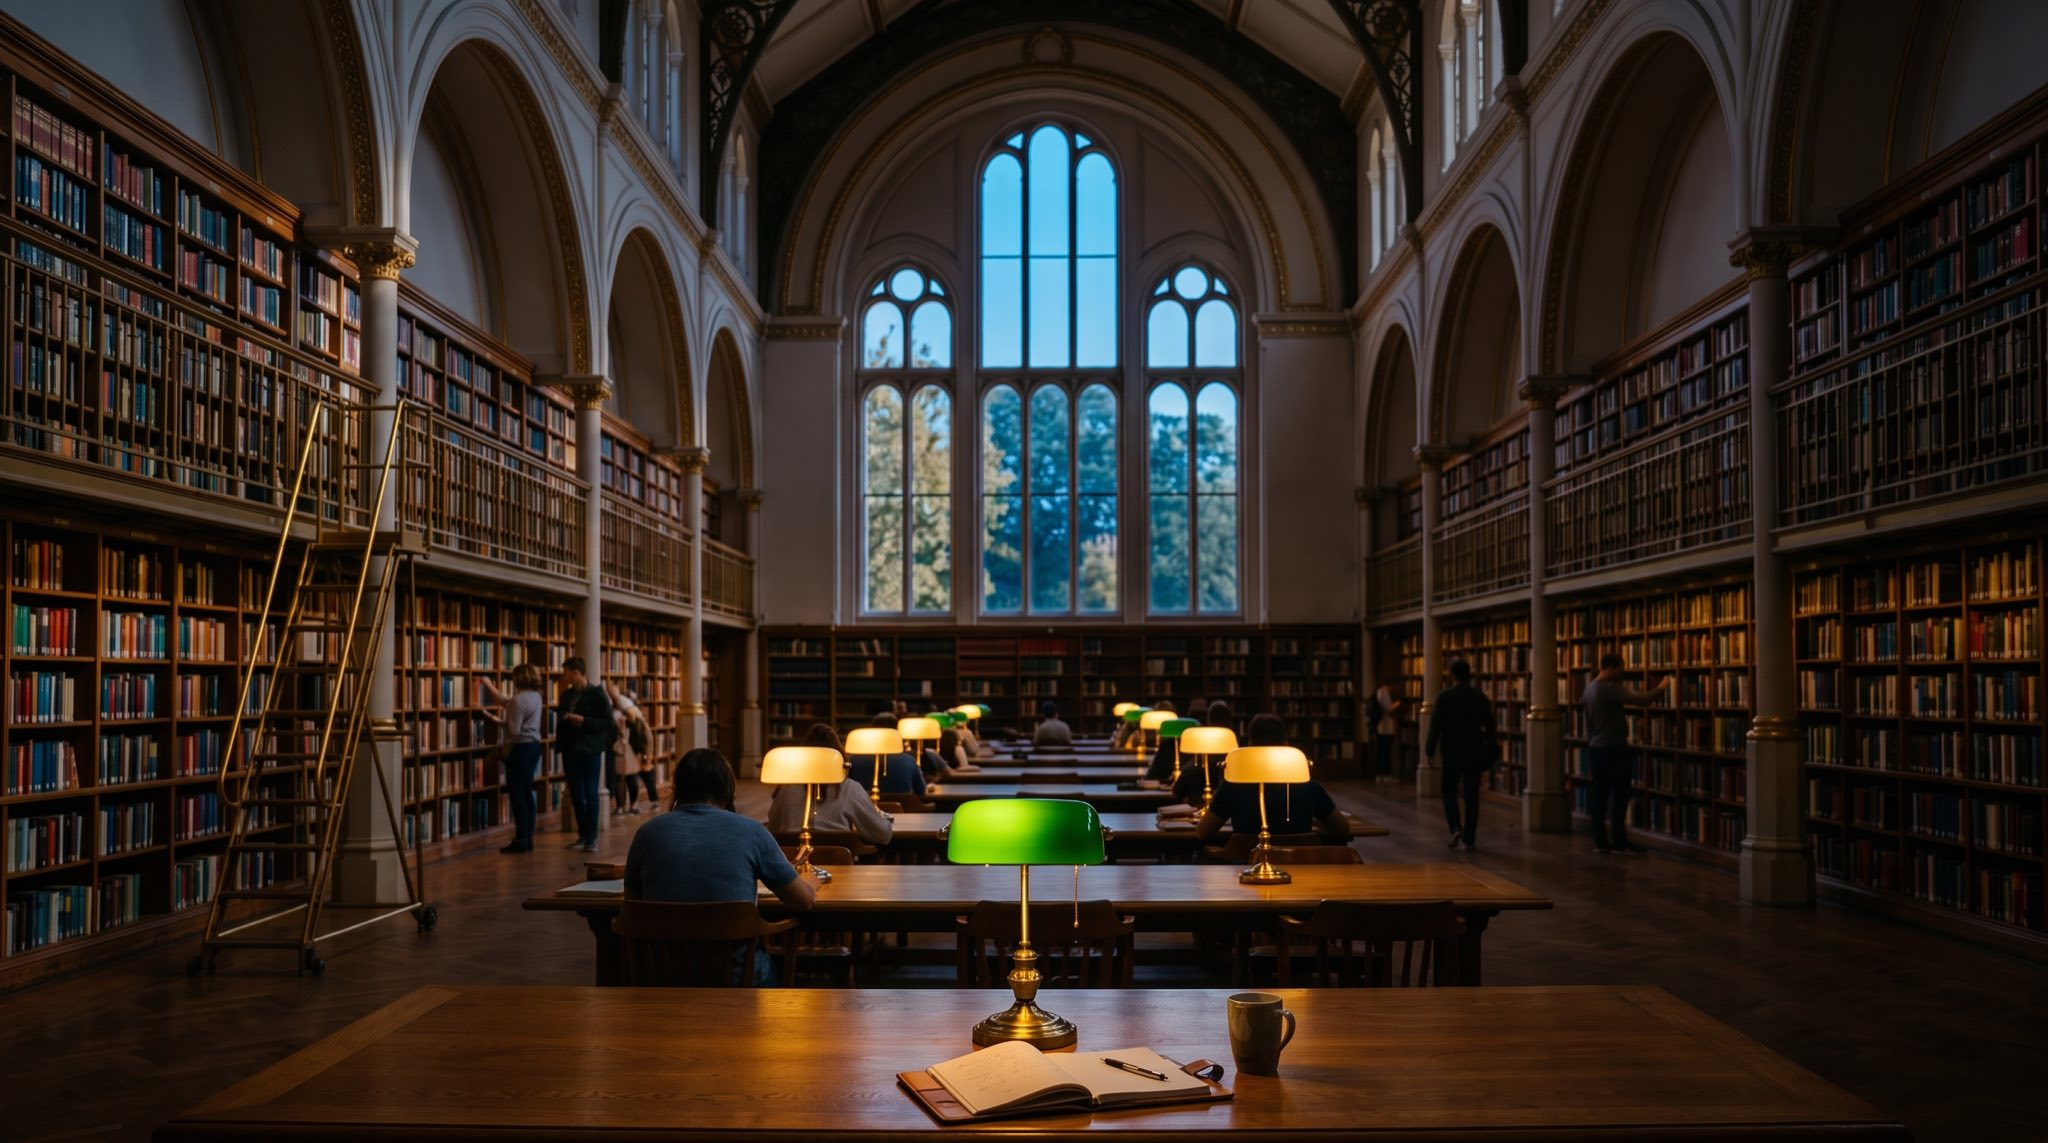
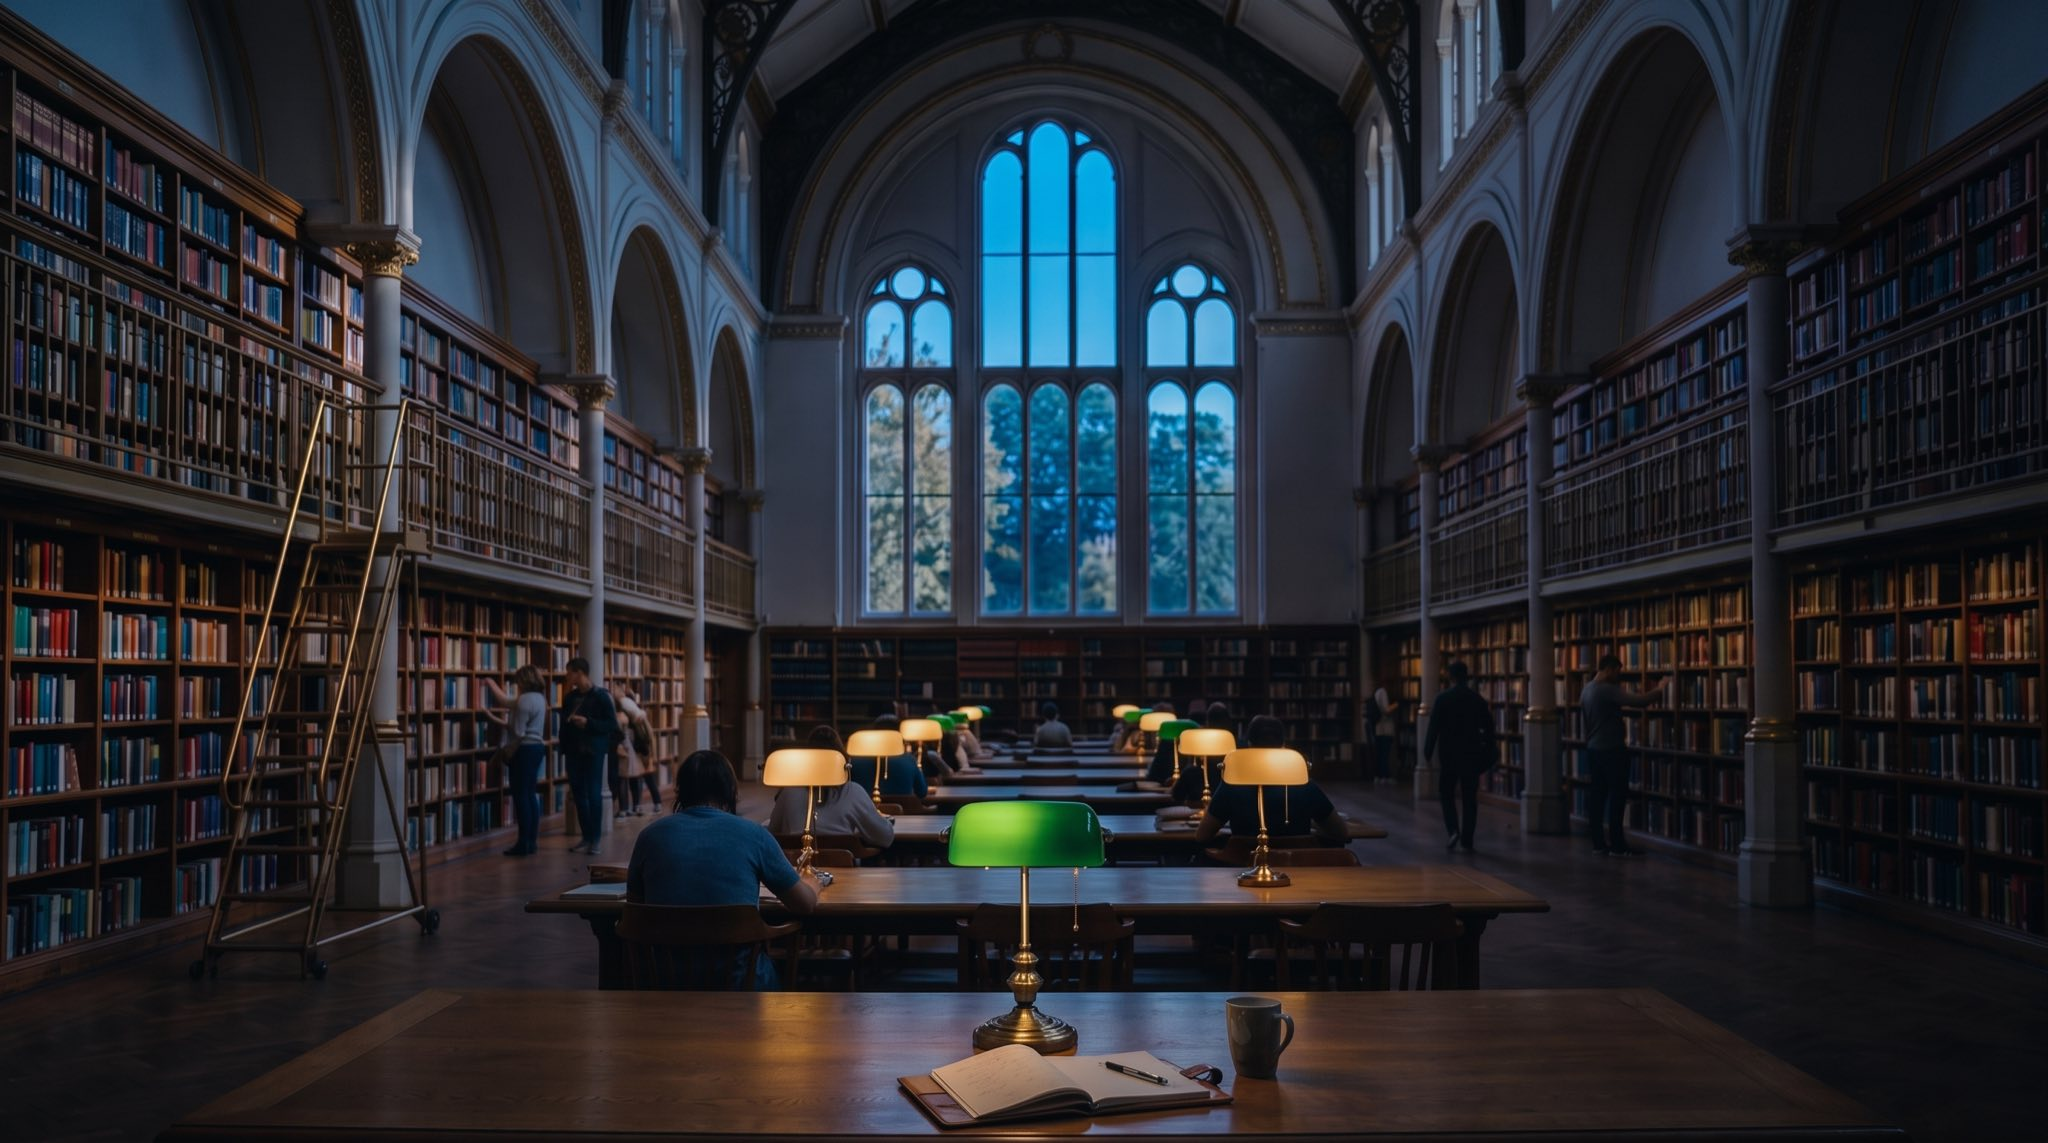
Home page: remove brown — charcoal-ink rooms, white paper, gold accents kept
Walnut/panel values retuned to charcoal (token names unchanged, the patch writes
them), paper to white, greige rules to cool grey. Hero plate regraded to blue
hour (phone crop cut from it); courtroom and office backdrops desaturated.

diff --git a/index.html b/index.html
@@ -11,7 +11,7 @@
 <meta property="og:title" content="NoCase &mdash; You don't have a case. Prove us wrong.">
 <meta property="og:description" content="Tell us what happened. We argue both sides, tell you where you stand, and build the packet you'd hand a lawyer.">
 <meta property="og:image" content="https://nocase.org/assets/hero-library.jpg">
-<meta name="theme-color" content="#1d130d">
+<meta name="theme-color" content="#0f1216">
 <!-- Fonts are served from assets/fonts/ — same no-external-requests posture as the
      plates. TeX Gyre Schola (GUST Font License) is a cut of Century Schoolbook, the face
      court briefs are filed in; Libre Franklin (OFL) is the face of forms and labels. -->
@@ -30,28 +30,29 @@
      Every section is a room (walnut, lamp light). --paper appears only where there
      is an actual document: the intake sheet, the example case file, the fee
      schedule, the terms. If a paralegal couldn't hand it to you, it isn't white.
-     Palette is lifted from a Texas law library: South Western Reporter buckram,
-     its red spine labels, walnut, brass, banker's-lamp green. */
+     Palette: charcoal-ink rooms and white paper (no brown, Dan 2026-09-24), with
+     the gold accents kept — buckram headline, brass rules, gilt handwriting —
+     plus spine red and banker's-lamp green. */
   :root {
-    --walnut: #1d130d;
-    --panel: #2b1c13;
+    --walnut: #0f1216;   /* name kept; value is charcoal ink since 2026-09-24 (Dan: no brown) */
+    --panel: #1a1f26;
     --buckram: #d2b07a;
     --brass: #b8954a;
     --lamp: #1e5c45;
     --spine: #9b2226;
-    --on-dark: rgba(242,240,233,0.80);
-    --on-dark-soft: rgba(242,240,233,0.62);
+    --on-dark: rgba(244,245,247,0.82);
+    --on-dark-soft: rgba(244,245,247,0.62);
     --hairline: rgba(184,149,74,0.32);
 
     /* Legacy token NAMES are kept on purpose: nocase-v2.3-patch.js and the inline
        fallback write these into result markup. Retune values; never rename. They
        all describe ink-on-paper, because results render on paper. */
-    --ink: #16120f;
-    --ink-soft: #3d352e;
-    --ink-muted: #6f665c;
-    --paper: #f2f0e9;
-    --paper-dark: #e6e2d6;
-    --rule: #cfc8b8;
+    --ink: #121417;
+    --ink-soft: #3a4048;
+    --ink-muted: #656c76;
+    --paper: #ffffff;
+    --paper-dark: #eceef1;
+    --rule: #d5d9df;
     --blue: #2f4a7a;
     --blue-light: #e7ecf4;
     --red: #9b2226;
@@ -132,9 +133,9 @@
   .lobby-plate::after {
     content: ''; position: absolute; inset: 0;
     background:
-      radial-gradient(ellipse 46% 22% at 50% 17%, rgba(29,19,13,0.72), rgba(29,19,13,0) 100%),
-      linear-gradient(to bottom, rgba(29,19,13,0.45) 0%, rgba(29,19,13,0) 18%, rgba(29,19,13,0) 66%, var(--walnut) 100%),
-      linear-gradient(to right, rgba(29,19,13,0.62) 0%, rgba(29,19,13,0.30) 46%, rgba(29,19,13,0.58) 100%);
+      radial-gradient(ellipse 46% 22% at 50% 17%, rgba(15,18,22,0.72), rgba(15,18,22,0) 100%),
+      linear-gradient(to bottom, rgba(15,18,22,0.45) 0%, rgba(15,18,22,0) 18%, rgba(15,18,22,0) 66%, var(--walnut) 100%),
+      linear-gradient(to right, rgba(15,18,22,0.62) 0%, rgba(15,18,22,0.30) 46%, rgba(15,18,22,0.58) 100%);
   }
   /* Headline on top, the book on the desk in the middle, the intake sheet under it
      (flying-book hero, 2026-09-21). Sized so #ncRunBtn clears the fold at 1440x900. */
@@ -160,13 +161,13 @@
   .hero-headline.verdict-good  { color: var(--green-bright); }
   .hero-headline.verdict-mixed { color: var(--gold-bright); }
   .hero-headline.verdict-bad   { color: var(--red-bright); }
-  .hero-sub { font-family: var(--serif); font-style: italic; font-size: clamp(22px, 2.6vw, 32px); line-height: 1.25; color: rgba(242,240,233,0.92); margin-bottom: 0; }
+  .hero-sub { font-family: var(--serif); font-style: italic; font-size: clamp(22px, 2.6vw, 32px); line-height: 1.25; color: rgba(244,245,247,0.92); margin-bottom: 0; }
   .hero-desc { max-width: 30em; font-size: 18px; line-height: 1.6; color: var(--on-dark); }
 
   /* The intake sheet — the one loud element on the page. */
   .sheet {
     background: var(--paper); color: var(--ink);
-    border: 1px solid #d8cfb9; border-radius: 2px;
+    border: 1px solid #d5d9df; border-radius: 2px;
     box-shadow: 0 1px 0 rgba(0,0,0,0.5), 0 18px 40px -18px rgba(0,0,0,0.7);
   }
   .intake-sheet { padding: 22px 24px 20px; }
@@ -179,15 +180,15 @@
     font-family: var(--sans); font-size: 16px; line-height: 28px; color: var(--ink);
     padding: 6px 10px; border: 1px solid var(--rule); border-radius: 2px;
     /* ruled like a form: one hairline per line of text */
-    background: #fbfaf5 repeating-linear-gradient(to bottom, transparent 0, transparent 27px, #e3ddcd 27px, #e3ddcd 28px);
+    background: #fafbfc repeating-linear-gradient(to bottom, transparent 0, transparent 27px, #e4e7eb 27px, #e4e7eb 28px);
     background-attachment: local; background-position: 0 6px;
   }
-  .intake-sheet textarea::placeholder { color: #8b8275; }
+  .intake-sheet textarea::placeholder { color: #858c96; }
   .intake-sheet textarea:focus-visible { outline: 2px solid var(--lamp); outline-offset: 1px; }
   .field-help { font-size: 13px; color: var(--ink-muted); margin: 8px 0 14px; }
   .legacy-pickers { display: grid; grid-template-columns: 1fr 1fr; gap: 12px; }
   .legacy-pickers > div { margin-bottom: 14px; }
-  .legacy-pickers select { width: 100%; font-family: var(--sans); font-size: 14px; color: var(--ink); padding: 9px 10px; border: 1px solid var(--rule); border-radius: 2px; background: #fbfaf5; }
+  .legacy-pickers select { width: 100%; font-family: var(--sans); font-size: 14px; color: var(--ink); padding: 9px 10px; border: 1px solid var(--rule); border-radius: 2px; background: #fafbfc; }
   /* #ncError, #ncTimer and #ncCourtroom are hidden by an INLINE display:none, never by
      this stylesheet. nocase-v2.3-patch.js reveals them with style.display = '' (clear
      the inline value). Hide them here as well and that clear falls through to this
@@ -217,7 +218,7 @@
   #ncCourtroom .nc-terms-link { font-size: 13px; margin: 0; }
   .nc-next { margin-top: 14px; padding-top: 12px; border-top: 1px solid var(--rule); }
   .nc-next h3 { margin-top: 0 !important; }
-  .nc-nextstep { margin-top: 14px; padding: 20px 22px; background: var(--paper); color: var(--ink); border: 1px solid #d8cfb9; border-radius: 2px; display: flex; align-items: center; justify-content: space-between; gap: 24px; flex-wrap: wrap; }
+  .nc-nextstep { margin-top: 14px; padding: 20px 22px; background: var(--paper); color: var(--ink); border: 1px solid #d5d9df; border-radius: 2px; display: flex; align-items: center; justify-content: space-between; gap: 24px; flex-wrap: wrap; }
   #ncCourtroom .nc-nextstep h3 { font-family: var(--serif); font-size: 20px; margin: 0 0 4px; }   /* id needed: #ncCourtroom h3 sizes model markdown */
   #ncCourtroom .nc-nextstep p { font-size: 15px; color: var(--ink-soft); max-width: 44em; margin: 0; }
   /* Results are paper, so they take ink. The page's text colour is light (rooms are
@@ -268,12 +269,12 @@
   /* The page block's edge along the bottom: a few paper lines under each page. */
   .hero-book::after {
     content: ''; position: absolute; left: 2px; right: 2px; bottom: -5px; height: 5px; z-index: -1;
-    background: repeating-linear-gradient(to bottom, #e6e2d6 0 1px, #cfc8b8 1px 2px);
+    background: repeating-linear-gradient(to bottom, #eceef1 0 1px, #d5d9df 1px 2px);
     border-radius: 0 0 2px 2px;
     animation: leftShow 1ms linear 2050ms both;
   }
   .hero-book-page {
-    background: var(--paper); border: 1px solid #d8cfb9; padding: 18px 20px;
+    background: var(--paper); border: 1px solid #d5d9df; padding: 18px 20px;
     font-family: 'Hand', cursive; color: var(--gold); text-align: left;
     min-height: 0;
   }
@@ -325,7 +326,7 @@
   .case-lines .spark { fill: var(--gilt-shine); filter: drop-shadow(0 0 6px var(--gilt-shine)); }
   .case-card {
     position: absolute; width: 236px; padding: 12px 14px 13px;
-    background: rgba(29,19,13,0.82); border: 1px solid rgba(210,176,122,0.55); border-radius: 3px;
+    background: rgba(15,18,22,0.82); border: 1px solid rgba(210,176,122,0.55); border-radius: 3px;
     box-shadow: 0 0 0 1px rgba(0,0,0,0.4), 0 0 22px -4px rgba(210,176,122,0.30), 0 14px 26px -12px rgba(0,0,0,0.8);
     text-align: left; transition: border-color 300ms, box-shadow 300ms;
     animation: cardOut 900ms var(--ease) var(--card-delay, 2.4s) both, cardDrift 7s ease-in-out calc(var(--card-delay, 2.4s) + 900ms) infinite;
@@ -368,9 +369,9 @@
 
   /* ROOM 4: the conference room — example case file on the courtroom plate */
   .plate-room { background: var(--walnut); overflow: hidden; }
-  .plate-room::before { content: ''; position: absolute; inset: 0; z-index: 0; background-size: cover; background-position: center; }
-  .conference::before { background-image: linear-gradient(rgba(29,19,13,0.80), rgba(29,19,13,0.92)), url('assets/hero-courtroom.jpg'); }
-  .packet-room::before { background-image: linear-gradient(to right, rgba(29,19,13,0.94) 0%, rgba(29,19,13,0.78) 55%, rgba(29,19,13,0.42) 100%), url('assets/office-night.jpg'); }
+  .plate-room::before { content: ''; position: absolute; inset: 0; z-index: 0; background-size: cover; background-position: center; filter: saturate(0.2) brightness(0.95); }   /* the courtroom and office plates are warm wood; drain it (no brown) */
+  .conference::before { background-image: linear-gradient(rgba(15,18,22,0.80), rgba(15,18,22,0.92)), url('assets/hero-courtroom.jpg'); }
+  .packet-room::before { background-image: linear-gradient(to right, rgba(15,18,22,0.94) 0%, rgba(15,18,22,0.78) 55%, rgba(15,18,22,0.42) 100%), url('assets/office-night.jpg'); }
   .casefile { margin-top: 40px; padding: 22px 24px 20px; }
   .casefile-head { display: flex; flex-wrap: wrap; align-items: baseline; justify-content: space-between; gap: 6px 24px; padding-bottom: 10px; margin-bottom: 18px; border-bottom: 2px solid var(--ink); }
   .casefile-head b { font-family: var(--serif); font-size: 19px; }
@@ -470,7 +471,7 @@
   .door-note { margin-top: 18px; font-size: 13px; color: var(--on-dark-soft); }
 
   /* FOOTER */
-  footer { background: #140d08; padding: 64px 24px 32px; border-top: 1px solid var(--hairline); }
+  footer { background: #0a0c0f; padding: 64px 24px 32px; border-top: 1px solid var(--hairline); }
   .footer-grid { display: grid; grid-template-columns: 2fr 1fr 1fr 1fr; gap: 48px; max-width: 1100px; margin: 0 auto 48px; }
   .footer-brand { font-family: var(--serif); font-weight: 700; font-size: 20px; color: var(--paper); }
   .footer-brand-desc { font-size: 14px; color: var(--on-dark-soft); line-height: 1.6; margin-top: 10px; max-width: 300px; }
@@ -500,7 +501,7 @@
        the fold on a 375x667 phone, and that button is the whole point of the screen. */
     .intake-sheet textarea { min-height: 84px; }
     .lobby-plate img { object-position: 40% 60%; }
-    .lobby-plate::after { background: linear-gradient(to bottom, rgba(29,19,13,0.35) 0%, rgba(29,19,13,0.15) 40%, var(--walnut) 96%); }
+    .lobby-plate::after { background: linear-gradient(to bottom, rgba(15,18,22,0.35) 0%, rgba(15,18,22,0.15) 40%, var(--walnut) 96%); }
     .lobby-grid { grid-template-columns: minmax(0, 1fr); min-height: 0; row-gap: 20px; text-align: left; justify-items: stretch; }
     .lobby-copy { display: contents; }
     .hero-headline { order: 1; margin-bottom: 0; }
